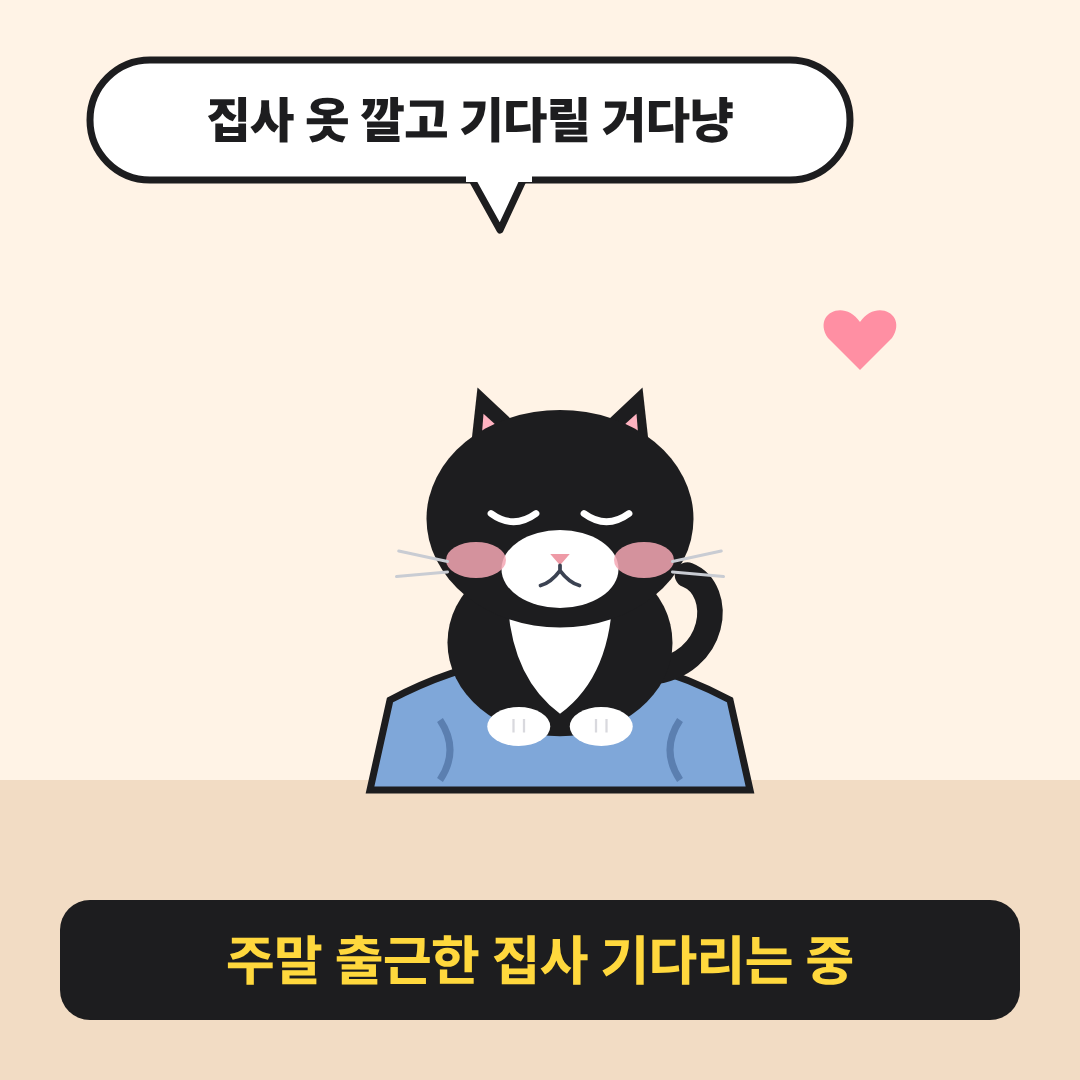
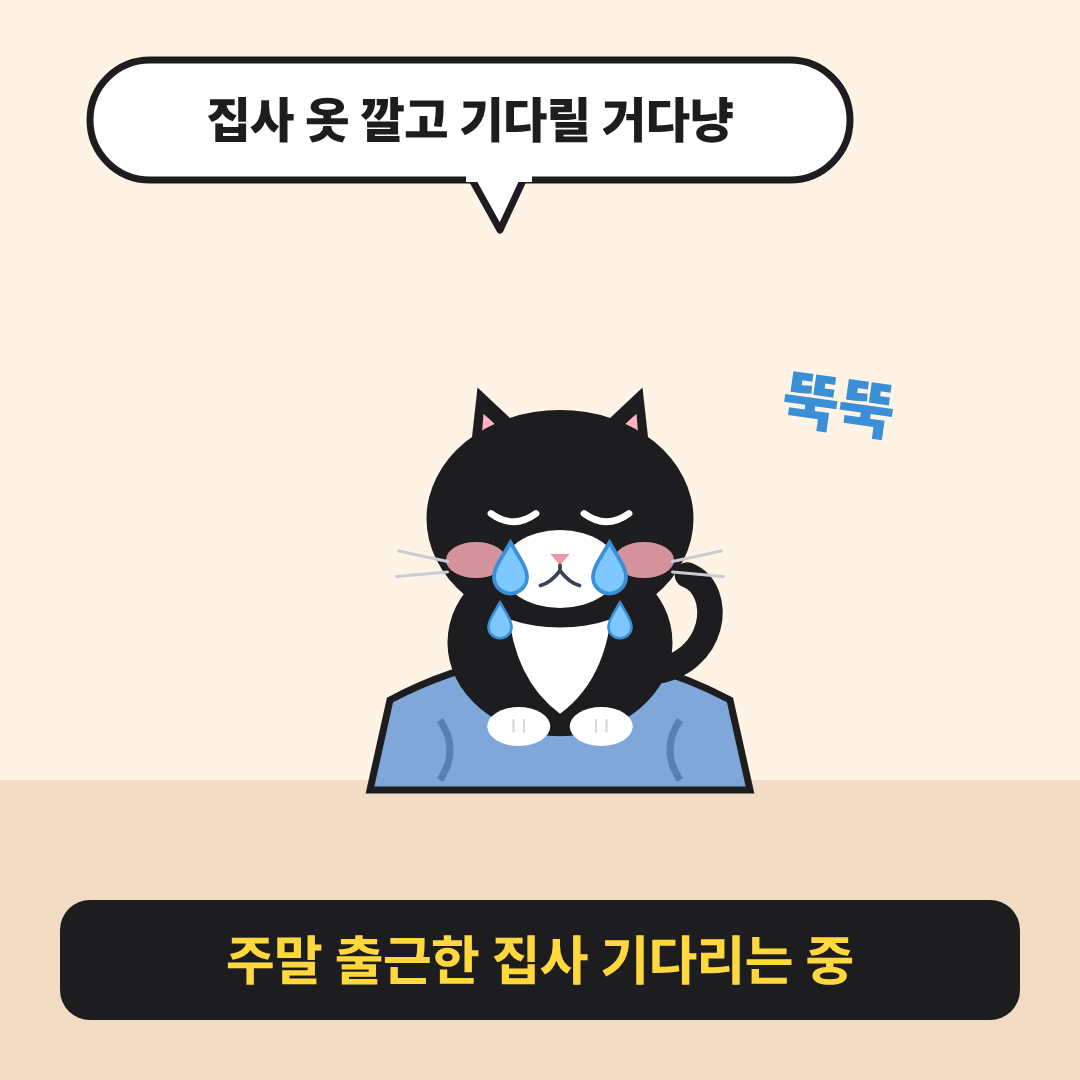
ep22: add falling tears to last panel
Claude-Session: https://claude.ai/code/session_01ATNo1qDAA9qFJoR3V8USGH

Changed region(s): [[0.7333, 0.275, 0.825, 0.4278], [0.55, 0.4889, 0.5806, 0.6111], [0.4583, 0.4889, 0.4889, 0.6111]]

diff --git a/scripts/toon/cat3-ep22.js b/scripts/toon/cat3-ep22.js
@@ -316,7 +316,8 @@ const p3 = panelF('#fff3e6',
   floor('#f2dcc4') +
   `<g transform="translate(560,760)"><path d="M-170 -60 q170 -90 340 0 l20 90 h-380Z" fill="#7fa7d9" stroke="${INK}" stroke-width="7"/>
    <path d="M-120 -40 q20 30 0 60 M120 -40 q-20 30 0 60" stroke="#5b7fb0" stroke-width="7" fill="none"/></g>` +
-  cat(560, 560, 0.75, 'sleep') + heart(860, 330, 0.8, '#ff8fa3') +
+  cat(560, 560, 0.75, 'sleep') + tears(560, 520, 0.75) +
+  `<text x="780" y="420" font-family="SUIT" font-weight="900" font-size="64" fill="#3b8fd6" transform="rotate(8 780 420)">뚝뚝</text>` +
   bubble(90, 60, 760, '집사 옷 깔고 기다릴 거다냥', 470),
   '주말 출근한 집사 기다리는 중');
 (async () => {
